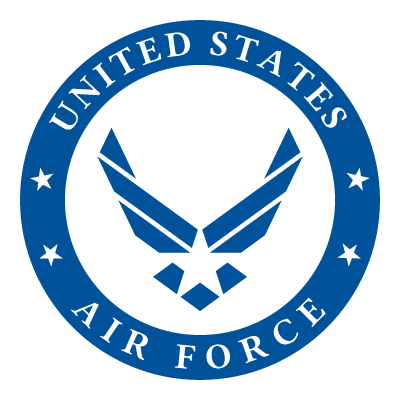
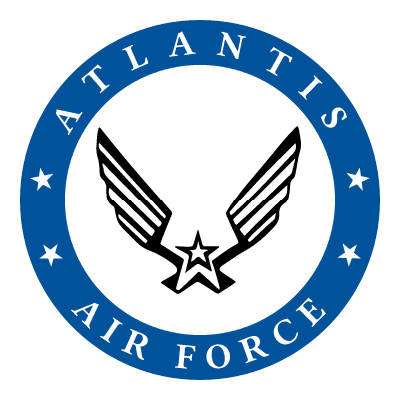
Updates examples to non trademarked material

diff --git a/README.md b/README.md
@@ -3,9 +3,9 @@ This is a [Typst](https://github.com/typst/typst) package to position text aroun
 # Demo
 
 <p float="left">
-    <img src="examples/live_fit.png"  width="200"/>
+    <img src="examples/kitchen.png"  width="200"/>
+    <img src="examples/fitness.png"  width="200"/>
     <img src="examples/air_force.png" width="200"/>
-    <img src="examples/ol_sarge.png"  width="200"/>
 </p>
 
 # Usage
